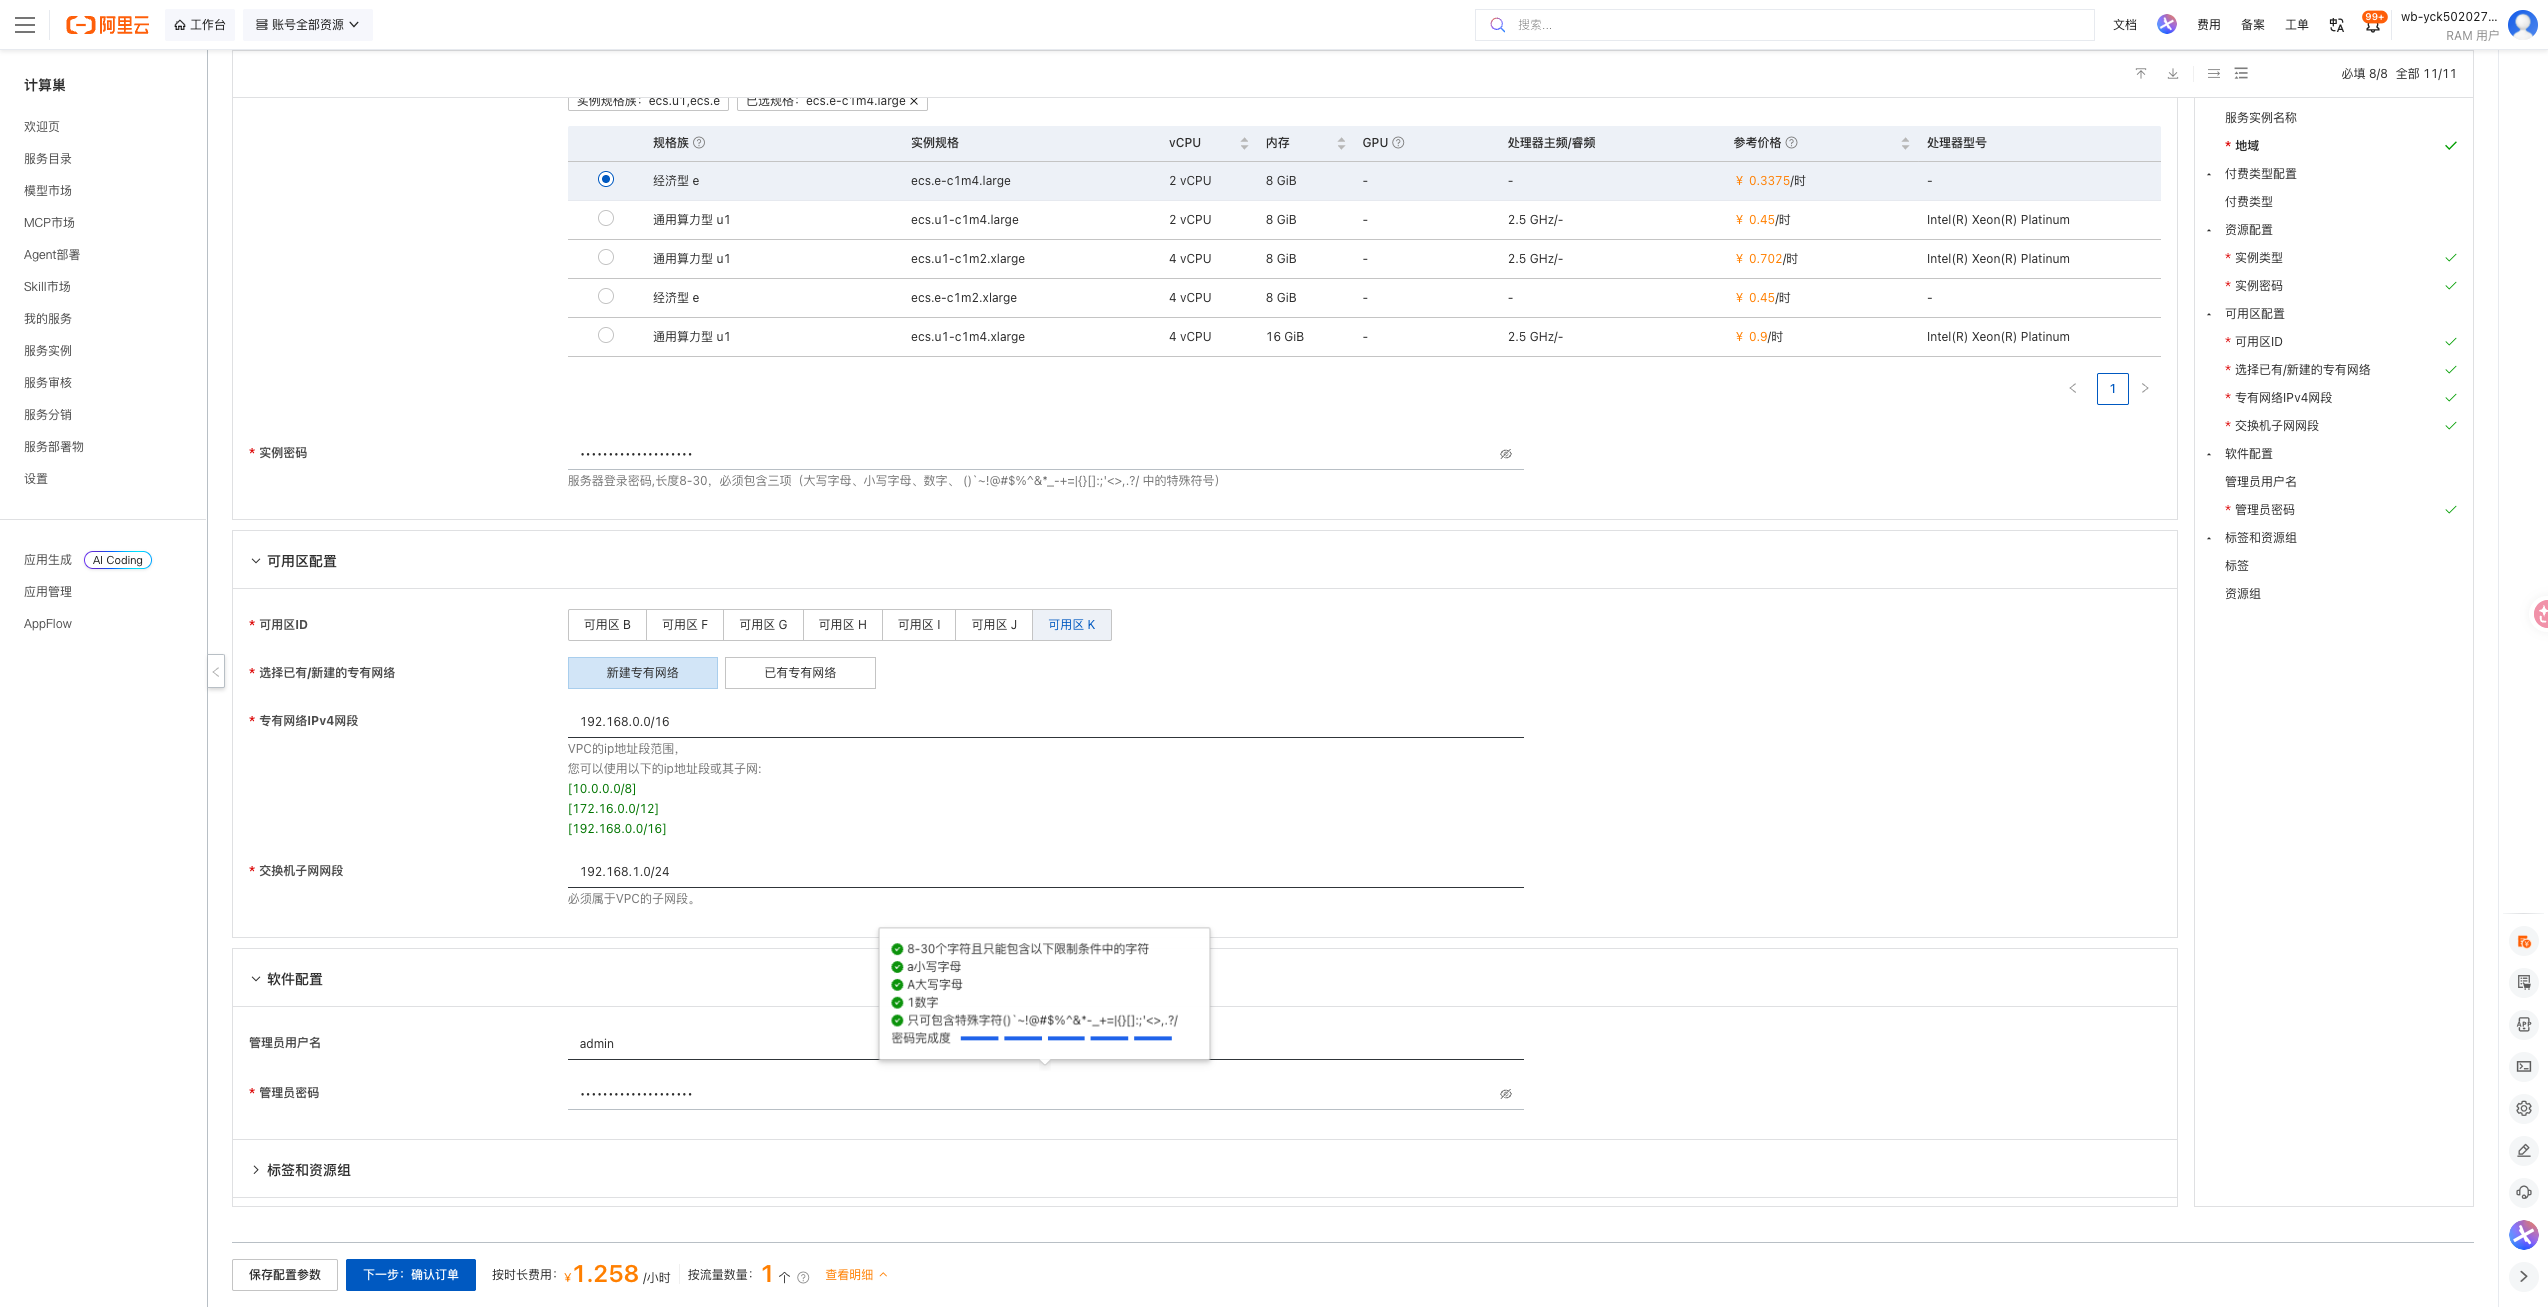
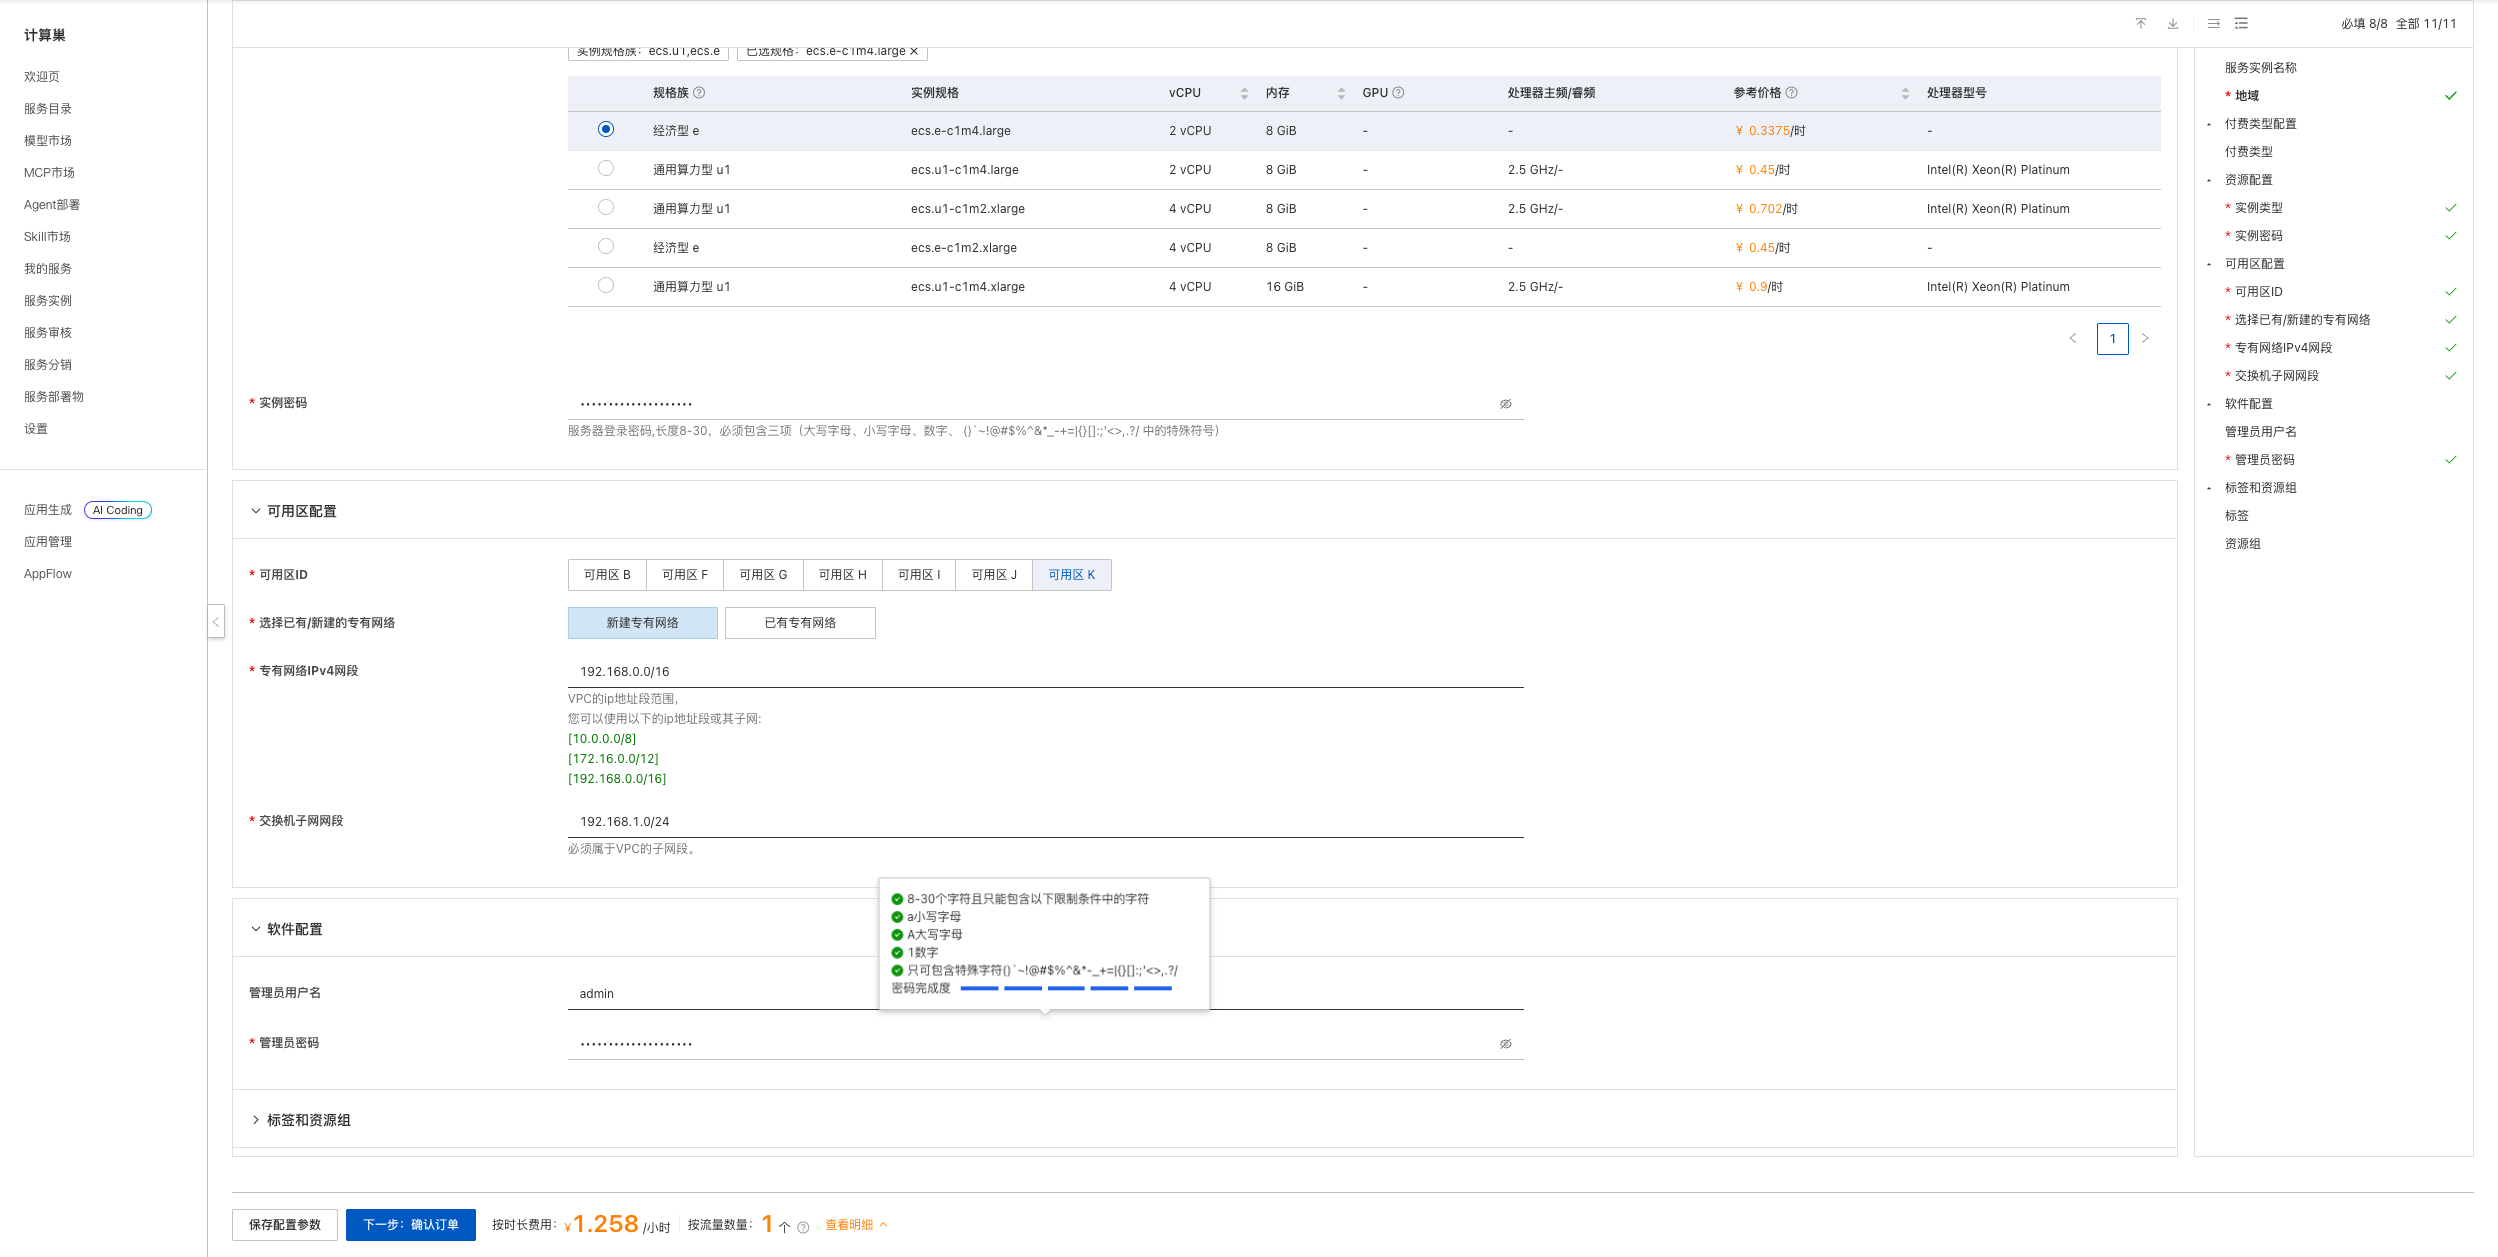
docs: simplify deployment guide and crop console screenshots

diff --git a/docs/deployment-doc.md b/docs/deployment-doc.md
@@ -14,42 +14,6 @@
 | 数据库 | 内嵌 H2，无需外接数据库 |
 | 实测部署耗时 | 约 3 分钟 |
 
-## 部署架构
-
-```text
-浏览器
-  │ HTTP 8080
-  ▼
-安全组
-  ▼
-ECS
-  └─ Docker Compose：Stirling-PDF
-       ├─ /configs       → /opt/stirling-pdf/configs
-       ├─ /logs          → /opt/stirling-pdf/logs
-       ├─ /usr/share/tessdata → /opt/stirling-pdf/tessdata
-       ├─ /pipeline      → /opt/stirling-pdf/pipeline
-       └─ /customFiles   → /opt/stirling-pdf/customFiles
-```
-
-计算巢通过 ROS 创建 VPC、交换机、安全组和 ECS，并通过云助手启动应用。Stirling-PDF 使用内嵌 H2 数据库，不会额外创建 RDS。
-
-## 部署前准备
-
-### 账号与权限
-
-请使用已完成实名认证的阿里云账号，并确保账号可以创建以下资源：
-
-- 计算巢服务实例；
-- ROS 资源栈；
-- ECS 实例、系统盘与安全组；
-- VPC 和交换机。
-
-使用 RAM 用户部署时，应由管理员授予上述资源的创建、查询和删除权限。
-
-### 计费说明
-
-部署会创建一台 ECS、200 GiB ESSD 系统盘并使用公网带宽。费用以创建页实时询价和阿里云账单为准。测试场景建议选择按量付费，并在验证结束后及时删除服务实例。
-
 ## 部署步骤
 
 ### 1. 打开创建页面

diff --git a/docs/index.md b/docs/index.md
@@ -14,42 +14,6 @@
 | 数据库 | 内嵌 H2，无需外接数据库 |
 | 实测部署耗时 | 约 3 分钟 |
 
-## 部署架构
-
-```text
-浏览器
-  │ HTTP 8080
-  ▼
-安全组
-  ▼
-ECS
-  └─ Docker Compose：Stirling-PDF
-       ├─ /configs       → /opt/stirling-pdf/configs
-       ├─ /logs          → /opt/stirling-pdf/logs
-       ├─ /usr/share/tessdata → /opt/stirling-pdf/tessdata
-       ├─ /pipeline      → /opt/stirling-pdf/pipeline
-       └─ /customFiles   → /opt/stirling-pdf/customFiles
-```
-
-计算巢通过 ROS 创建 VPC、交换机、安全组和 ECS，并通过云助手启动应用。Stirling-PDF 使用内嵌 H2 数据库，不会额外创建 RDS。
-
-## 部署前准备
-
-### 账号与权限
-
-请使用已完成实名认证的阿里云账号，并确保账号可以创建以下资源：
-
-- 计算巢服务实例；
-- ROS 资源栈；
-- ECS 实例、系统盘与安全组；
-- VPC 和交换机。
-
-使用 RAM 用户部署时，应由管理员授予上述资源的创建、查询和删除权限。
-
-### 计费说明
-
-部署会创建一台 ECS、200 GiB ESSD 系统盘并使用公网带宽。费用以创建页实时询价和阿里云账单为准。测试场景建议选择按量付费，并在验证结束后及时删除服务实例。
-
 ## 部署步骤
 
 ### 1. 打开创建页面
